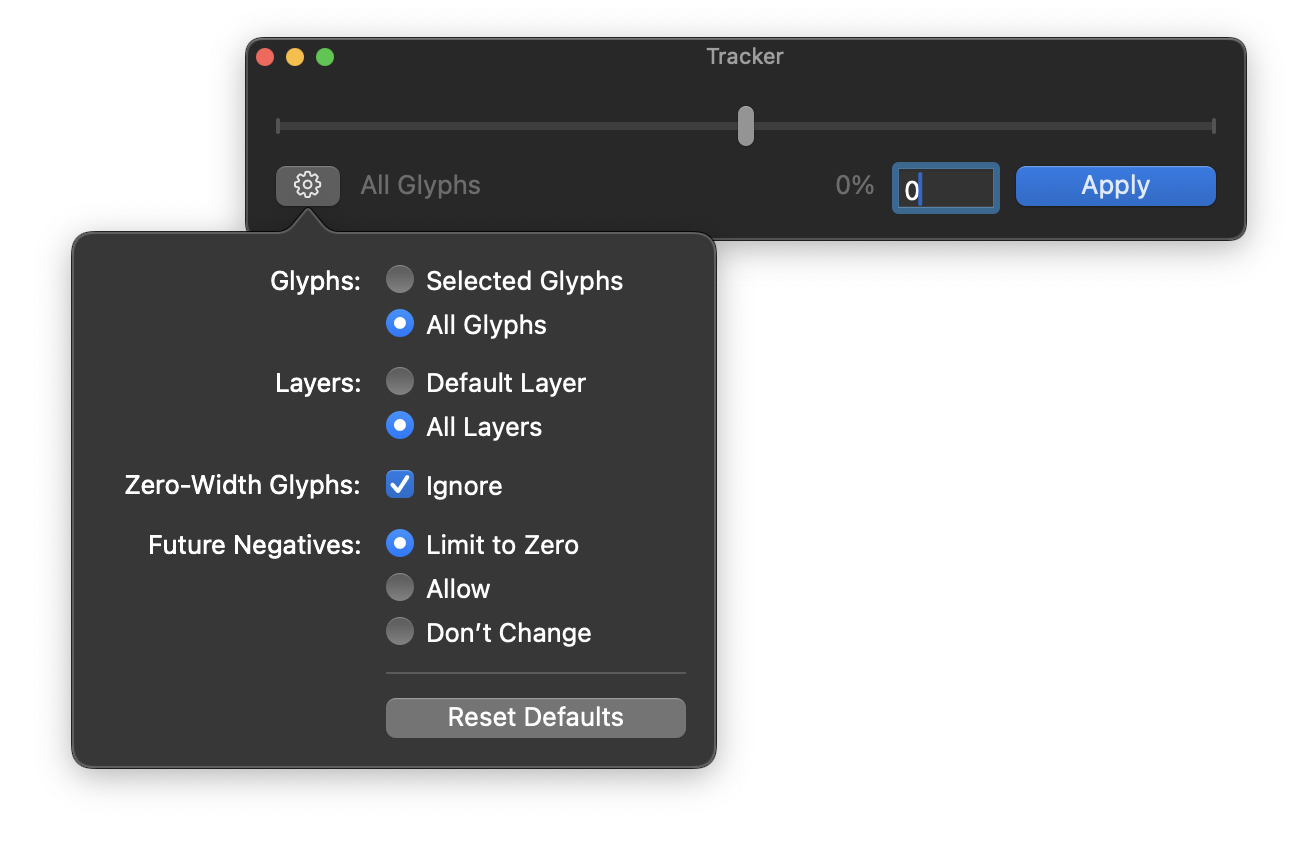
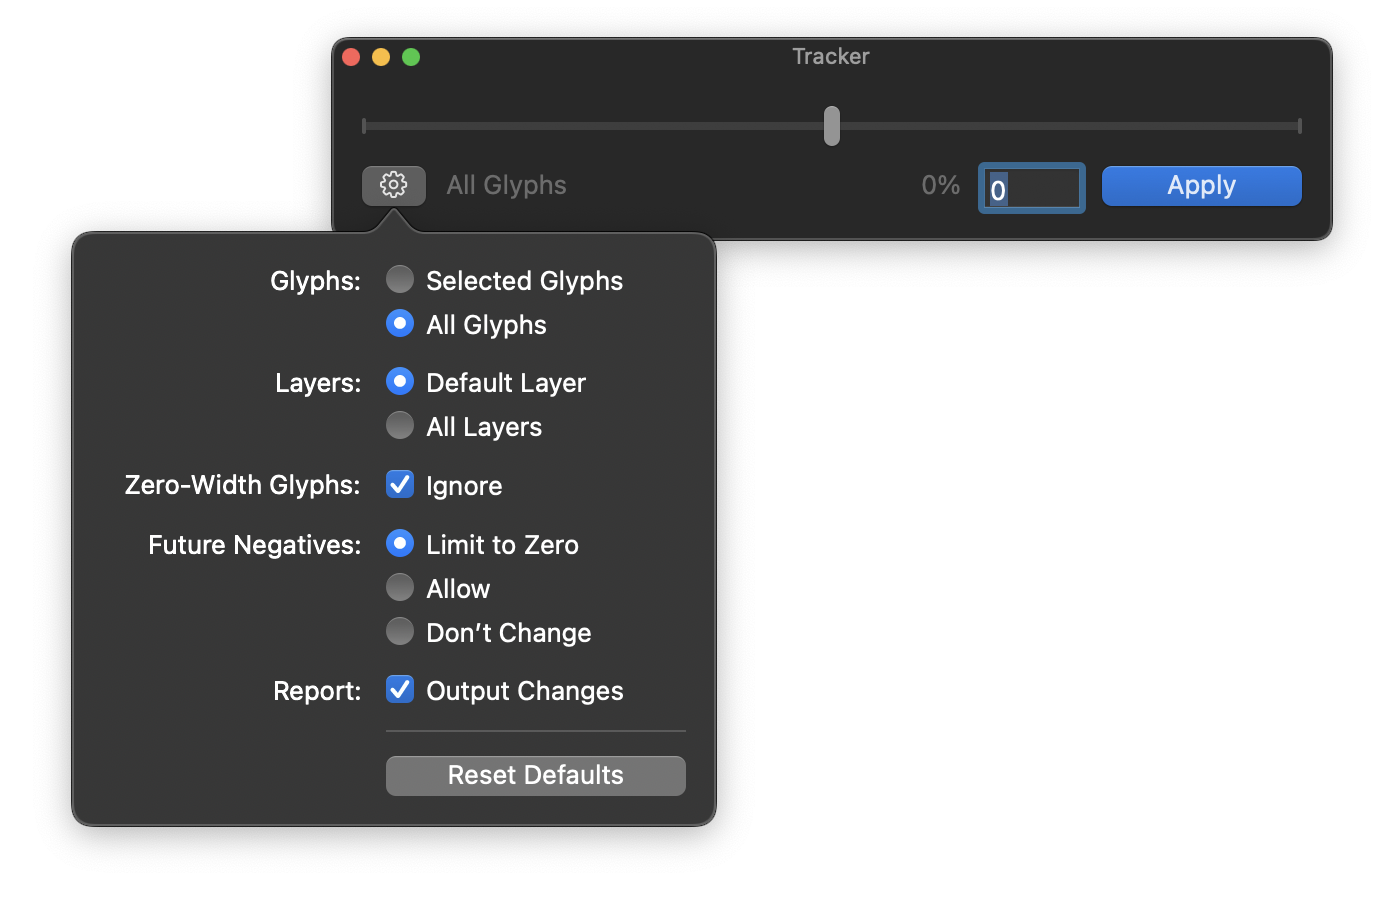
Make report a pref
https://github.com/ryanbugden/Tracker/issues/5

Changed region(s): [[0.031, 0.0307, 0.9907, 0.9198], [0.5573, 0.1226, 0.6192, 0.184], [0.1858, 0.7358, 0.2477, 0.7972]]

diff --git a/source/lib/settings.py b/source/lib/settings.py
@@ -13,7 +13,9 @@ EXTENSION_DEFAULTS = {
     # Avoid changing zero-width glyphs
     "ignoreZeroWidth": True,
     # If spacing will result in a negative width, limit it to zero, allow negative widths, or avoid respacing that glyph altogether
-    "prospectiveNegativeWidths": 0, # "limit to zero", "allow negatives", or "don’t change"
+    "prospectiveNegativeWidths": 0,  # "limit to zero", "allow negatives", or "don’t change"
+    # Print report to output window
+    "report": True,
 }
 
 
@@ -39,6 +41,9 @@ class TrackerSettingsWindowController(ezui.WindowController):
         > (X) Limit to Zero        @prospectiveNegativeWidths
         > ( ) Allow
         > ( ) Don’t Change
+
+        > : Report:
+        > [X] Output Changes       @report
         
         > ---
         

diff --git a/source/lib/main.py b/source/lib/main.py
@@ -170,7 +170,7 @@ class Tracker(Subscriber, ezui.WindowController):
             all_layers = settings["layersSelection"], 
             ignore_zero_width = settings["ignoreZeroWidth"], 
             future_negative_width = ["limit to zero", "allow negatives", "don’t change"][settings["prospectiveNegativeWidths"]],
-            report=True
+            report=settings['report']
             )
         self.reset_space_center()
         self.update_slider_from_sc()

diff --git a/README.md b/README.md
@@ -45,6 +45,10 @@ Let’s say some of your glyphs are 50 units wide, and you want to track your fo
 
 **Don’t Change:** You want to handle the spacing of these glyphs yourself. You want to leave these glyphs unaffected by Tracker.
 
+### Report
+
+Choose whether you would like to output a report of what changes Tracker made to your RoboFont [Output Window](https://robofont.com/documentation/reference/workspace/output-window/).
+
 ## A couple of use-cases
 
 ### Changing the overall spacing of your font
